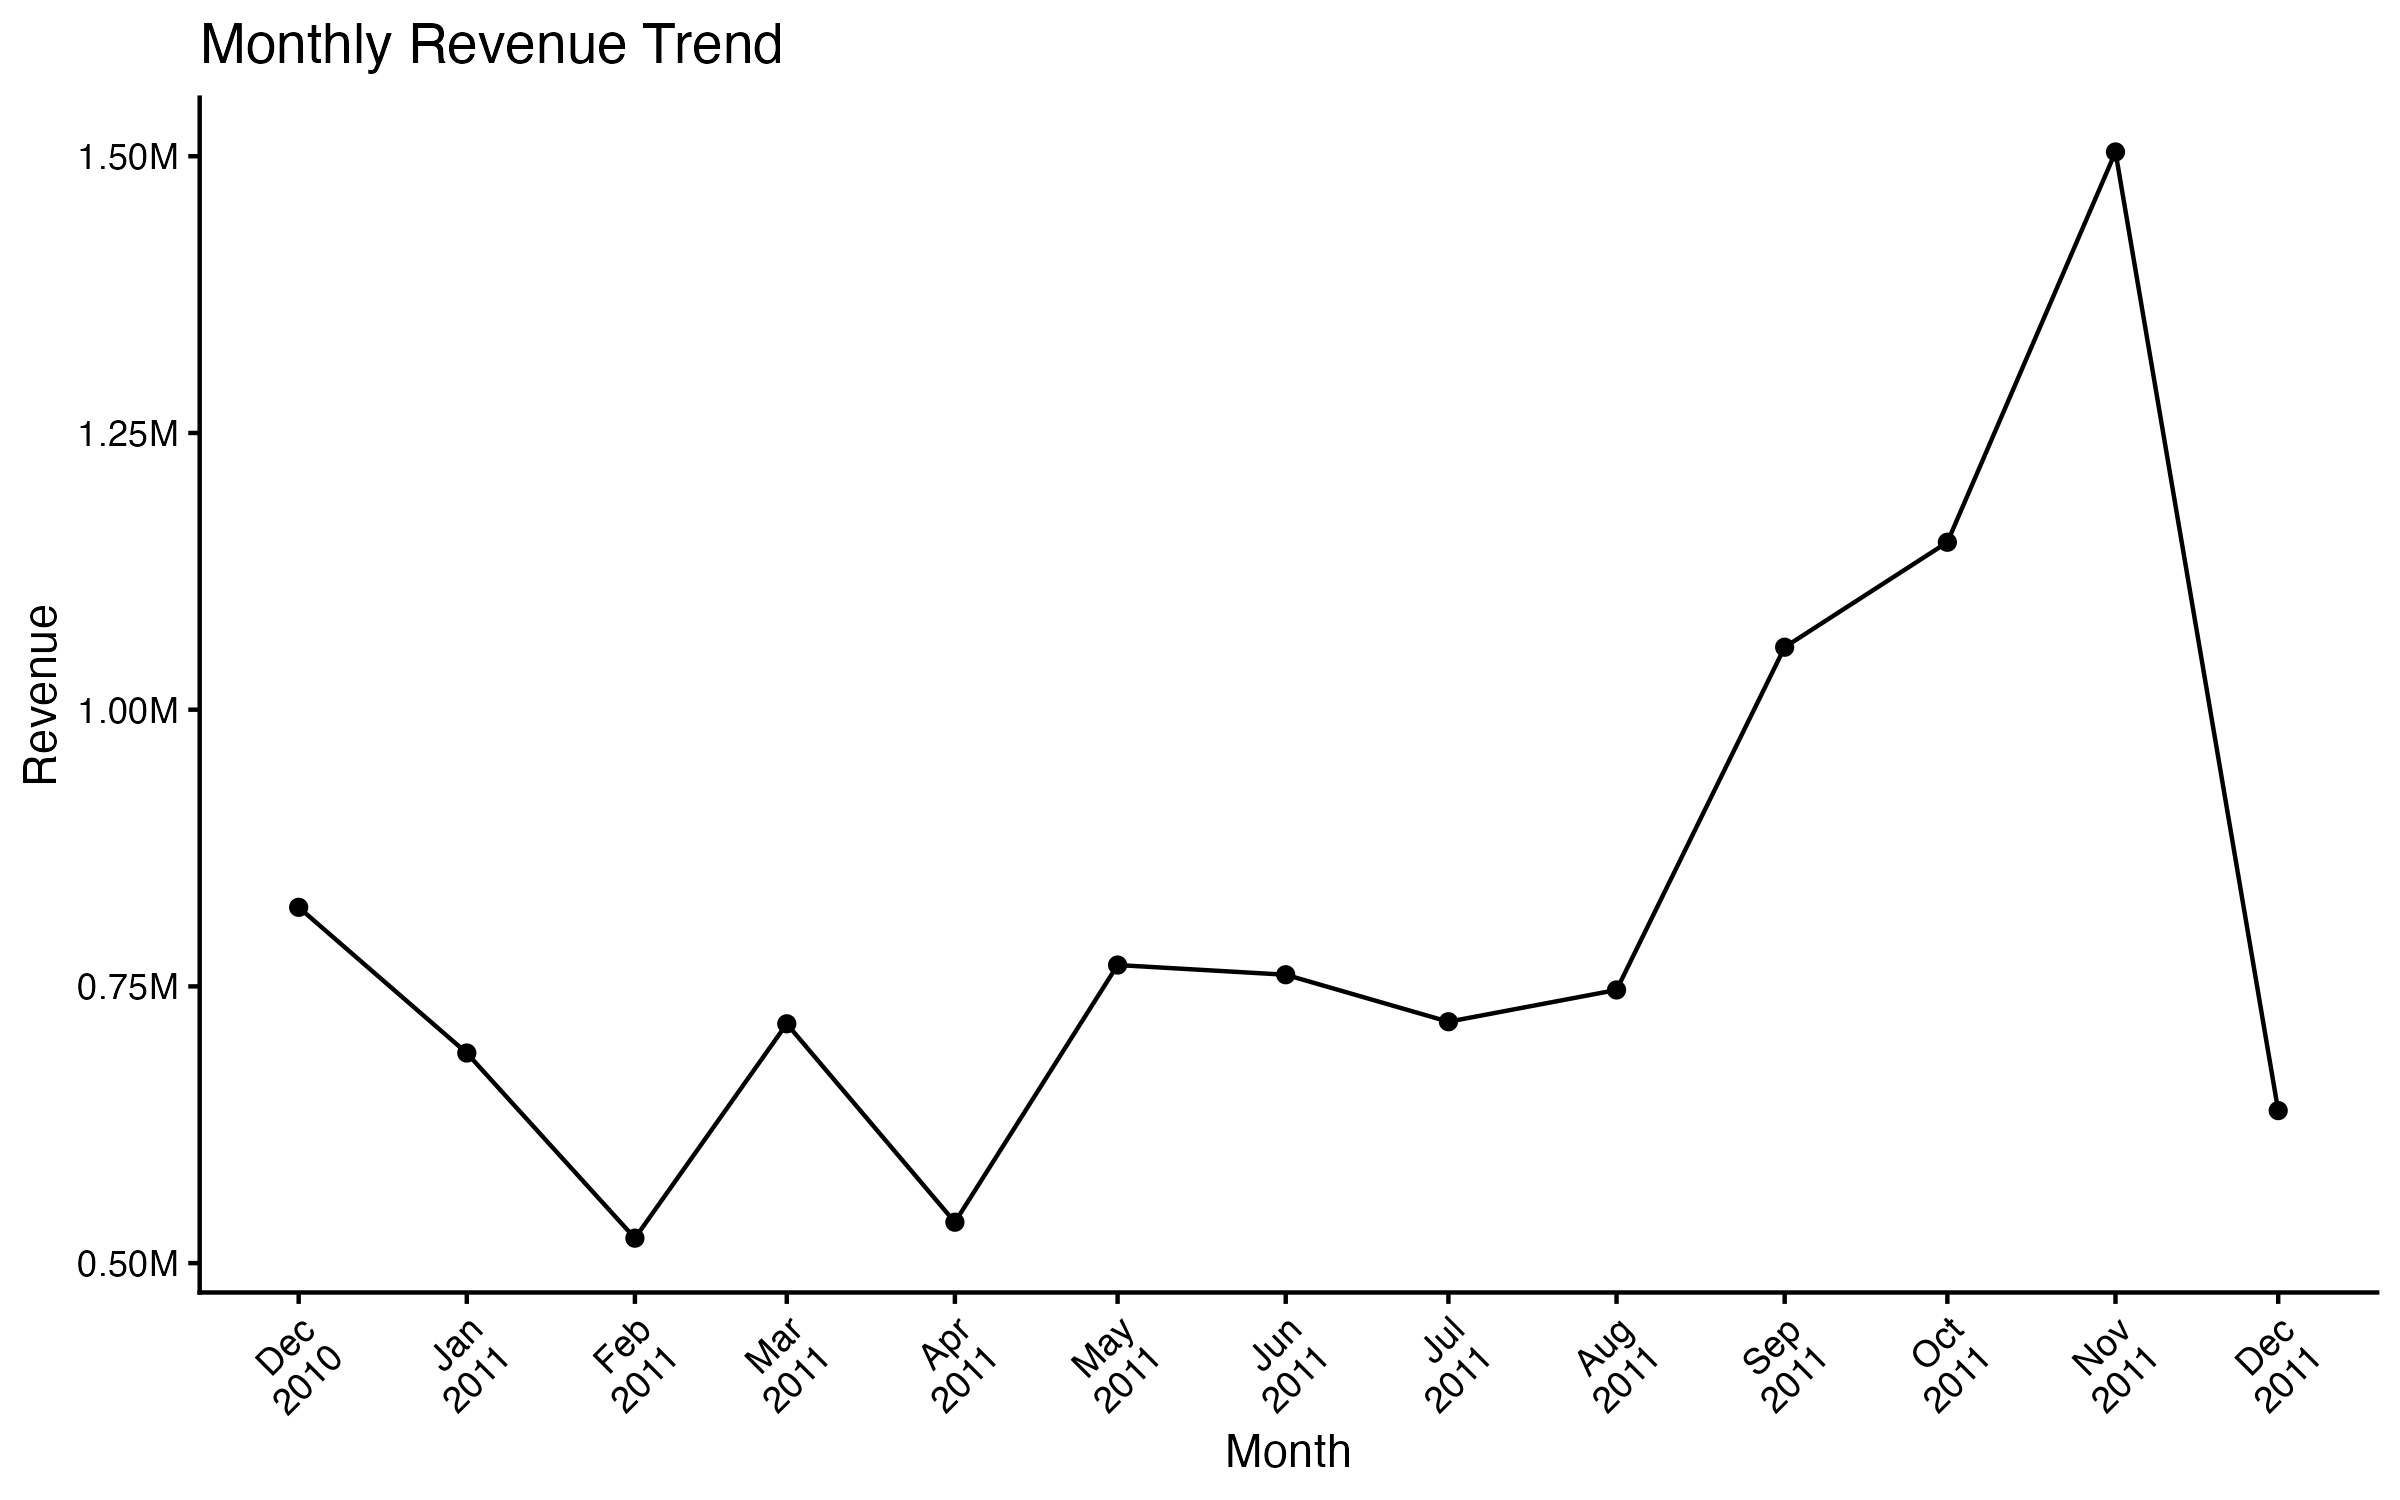
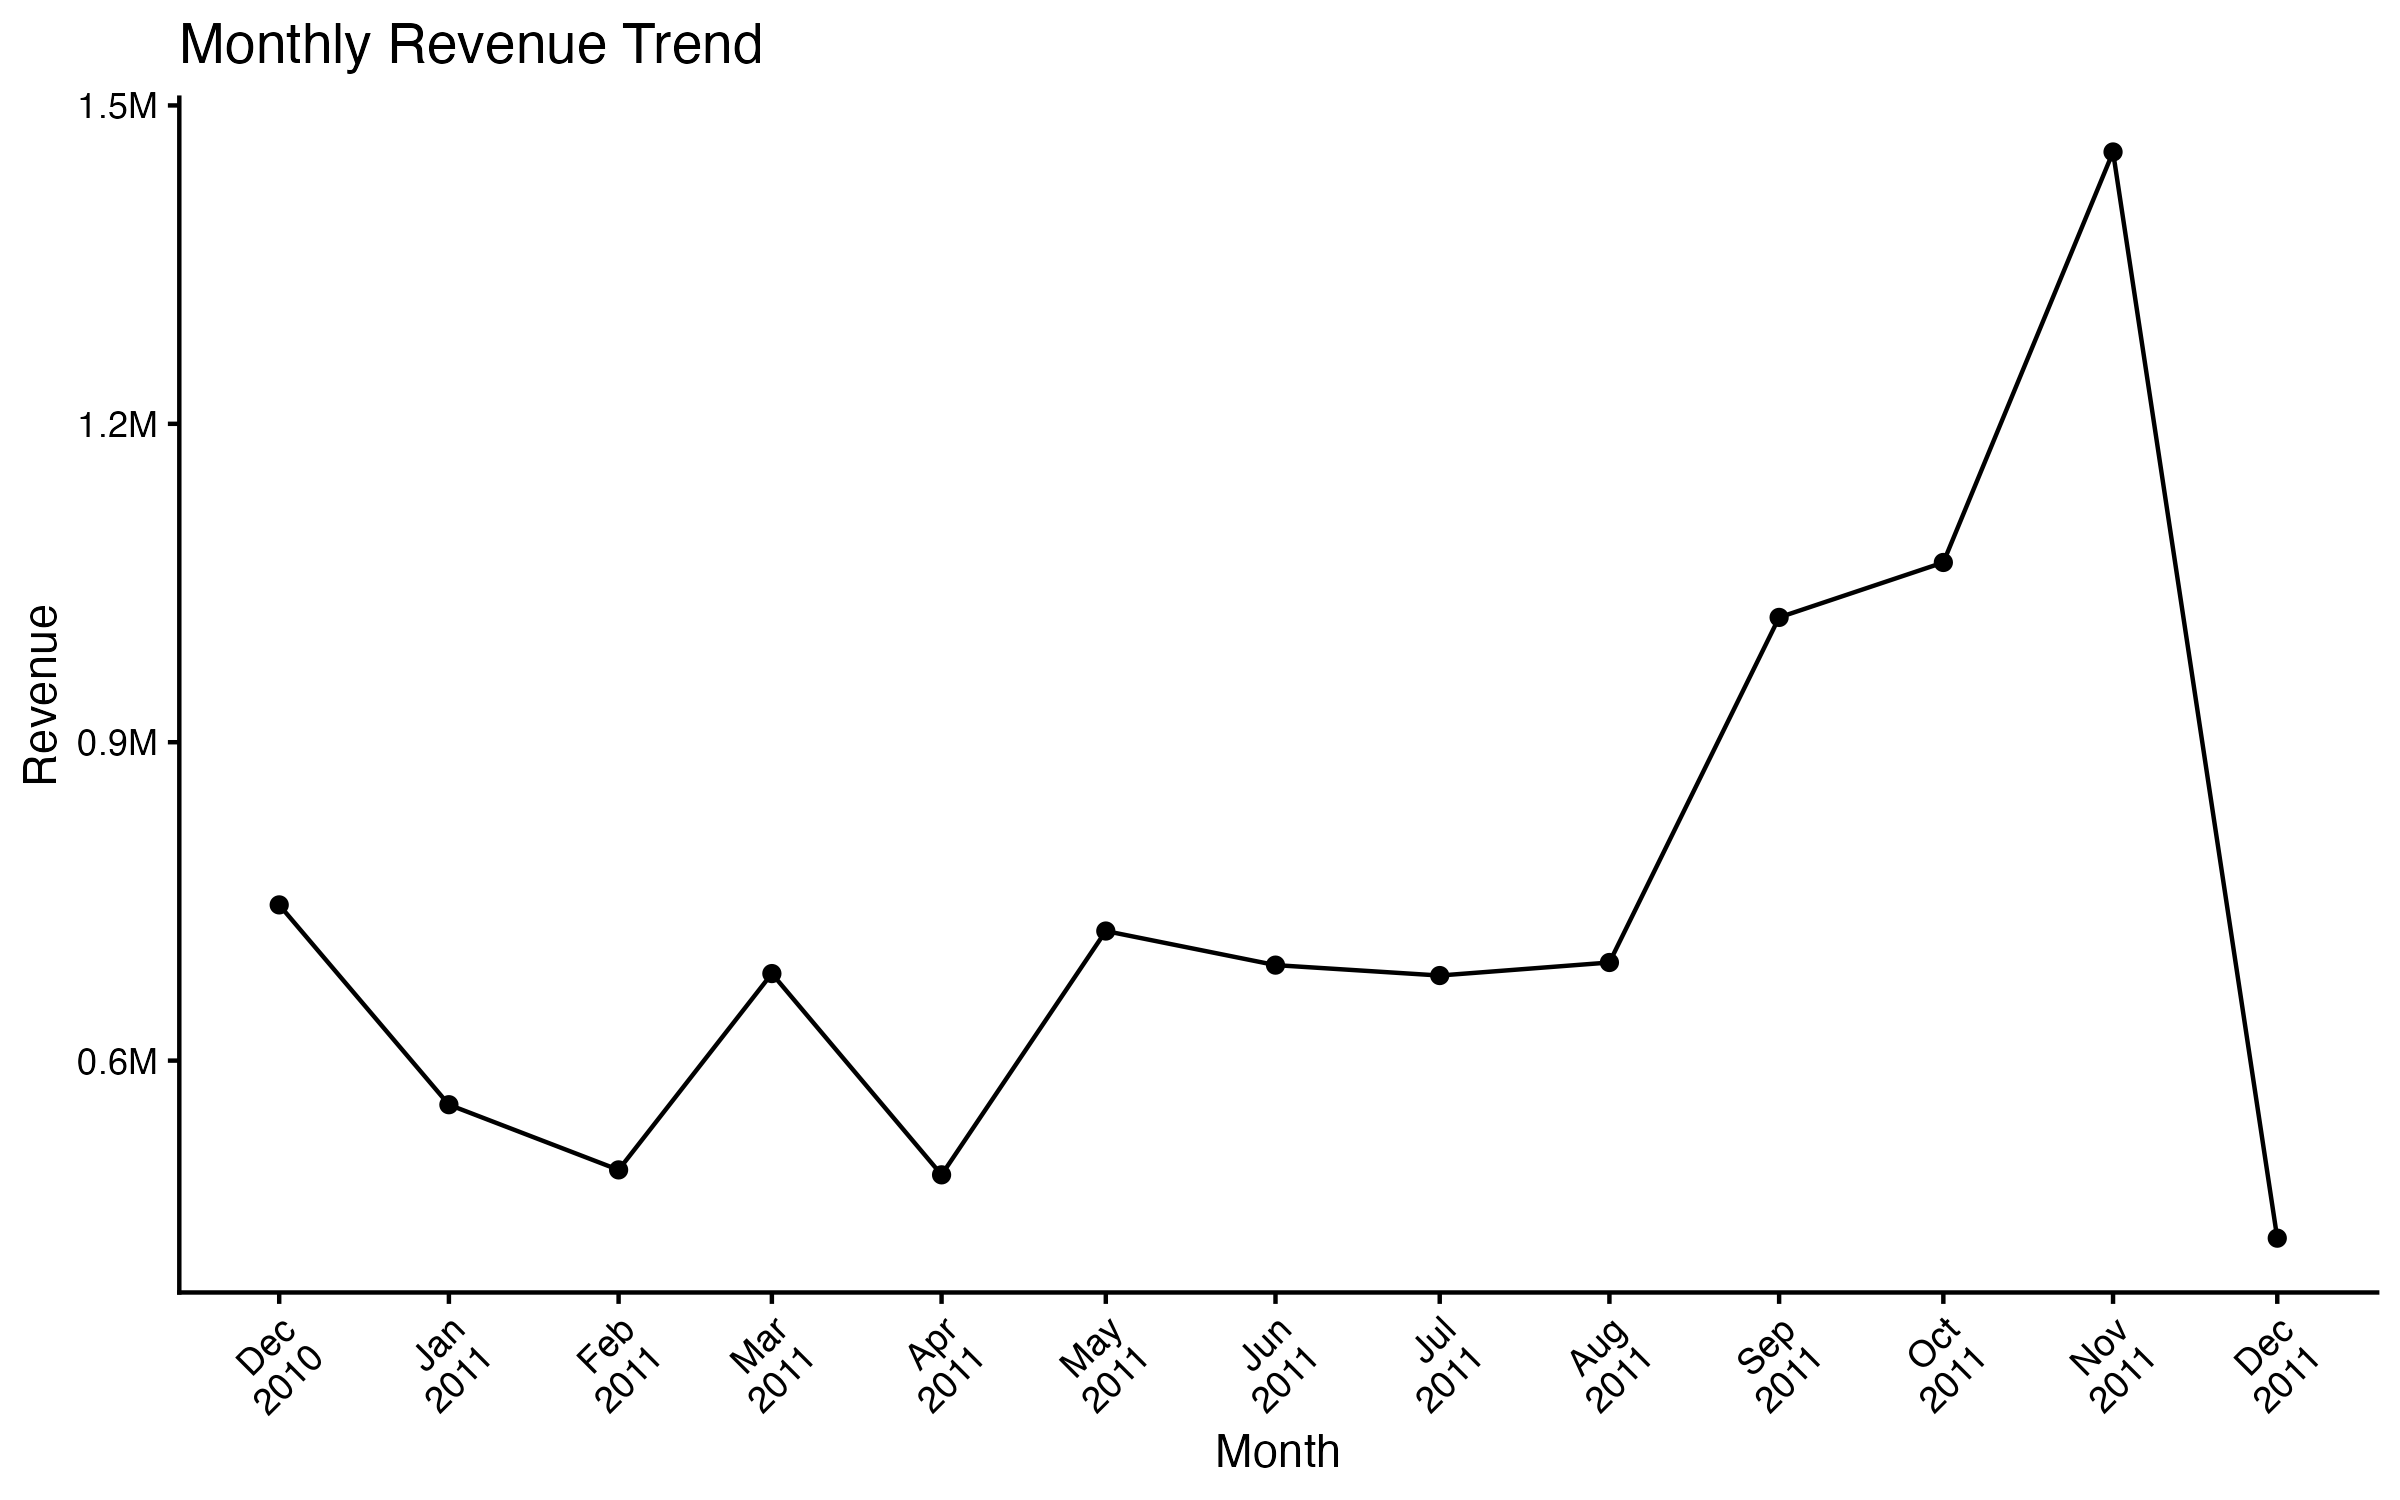
Revise cancellation handling and update net sales analysis

diff --git a/04_report/analysis_notes.md b/04_report/analysis_notes.md
@@ -3,12 +3,14 @@
 ## 1. Data Audit
 
 ### Missing CustomerID
+
 135,080 transactions have missing CustomerID values.
 
 Missing CustomerID records are retained for overall sales analysis,
 but excluded when customer-level metrics are calculated.
 
 ### Duplicate Rows
+
 5,268 exact duplicate rows were identified.
 
 Exact duplicates were removed before analysis.
@@ -51,54 +53,86 @@ were excluded.
 The following rules were applied:
 
 1. Remove exact duplicate rows.
-2. Exclude cancellation invoices beginning with "C".
-3. Exclude Quantity <= 0.
-4. Exclude UnitPrice <= 0.
+2. Retain valid cancellation transactions where InvoiceNo begins with
+   "C" and Quantity is negative.
+3. Exclude non-cancellation transactions with Quantity <= 0 because
+   they primarily represent inventory adjustments rather than sales.
+4. Exclude transactions with UnitPrice <= 0.
 5. Exclude "Adjust bad debt" records because they represent accounting
    adjustments rather than retail sales transactions.
 6. Preserve missing CustomerID for overall sales analysis.
+7. Calculate Revenue as Quantity * UnitPrice so cancellation
+   transactions contribute negative revenue.
 
 During QA, a positive "Adjust bad debt" record passed the initial numeric
 cleaning rules and was later identified as an accounting adjustment.
 The cleaning rule was updated accordingly.
 
+### Cancellation Handling
+
+During product-level QA, several unusually large transactions were found to
+have matching cancellation invoices with equal negative quantities.
+
+The initial cleaning approach removed cancellation invoices while retaining
+the original positive sales transactions. This overstated revenue because
+fully cancelled sales remained in the analysis.
+
+The methodology was revised to retain valid cancellation transactions as
+negative quantities and negative revenue.
+
+Non-cancellation negative-quantity records, such as inventory adjustments,
+remain excluded.
+
+After cleaning:
+
+- 9,251 cancellation rows were retained
+- Gross sales revenue was approximately 10,631,049
+- Cancellation revenue was approximately -893,980
+- Net revenue was approximately 9,737,069
+
+As a result, all revenue metrics in this project are now reported on a
+net-revenue basis.
+
 
 ## 3. Overall KPIs
 
-Total Revenue: 10,631,049
+- Net Revenue: 9,737,069
+- Sales Orders: 19,959
+- Unique Customers: 4,338
+- Average Order Value: 487.85
 
-Total Orders: 19,959
+Revenue includes valid cancellation transactions as negative revenue.
 
-Unique Customers: 4,338
+Orders and customers are calculated from non-cancellation sales
+transactions.
 
-Average Order Value: 532.64
+Average Order Value is calculated as net revenue divided by the number
+of non-cancellation sales orders.
 
 
 ## 4. Monthly Performance Analysis
 
-November 2011 had the highest monthly revenue.
+From September to November 2011:
 
-Revenue increased approximately 42.4% from September to November 2011.
+- Net Revenue increased by approximately 43.1%
+- Orders increased by approximately 50.7%
+- Active Customers increased by approximately 31.4%
+- AOV decreased by approximately 5.1%
 
-During the same period:
+The increase in net revenue was therefore driven primarily by higher order
+volume and increased customer activity rather than higher revenue per order.
 
-- Orders increased approximately 50.7%.
-- Active customers increased approximately 31.4%.
-- Average Order Value decreased approximately 5.5%.
+December 2011 is a partial month and should not be directly compared with
+full months.
 
-This increase in revenue was therefore primarily associated with higher order
-volume and increased customer activity rather than higher spending per order.
-
-December 2011 contains only partial-month data, so December performance should
-not be directly compared with complete months.
 
 ## 5. Country Performance
 
 The United Kingdom was the dominant market, contributing approximately
-84.6% of total revenue.
+84.0% of total net revenue.
 
-The top five countries together accounted for approximately 94.0% of
-total revenue, indicating a high concentration of sales in a small
+The top five countries together accounted for approximately 93.9% of
+total net revenue, indicating a high concentration of sales in a small
 number of markets.
 
 The United Kingdom also had by far the highest number of orders and
@@ -112,10 +146,10 @@ The next analysis will evaluate sales performance by product.
 
 The analysis will examine:
 
-- Revenue by product
-- Quantity sold by product
-- Top products by revenue
-- Top products by sales volume
+- Net revenue by product
+- Net quantity sold by product
+- Top products by net revenue
+- Top products by net sales volume
 
 The objective is to identify the products contributing most strongly
-to sales performance.
+to sales performance after accounting for cancellations.
